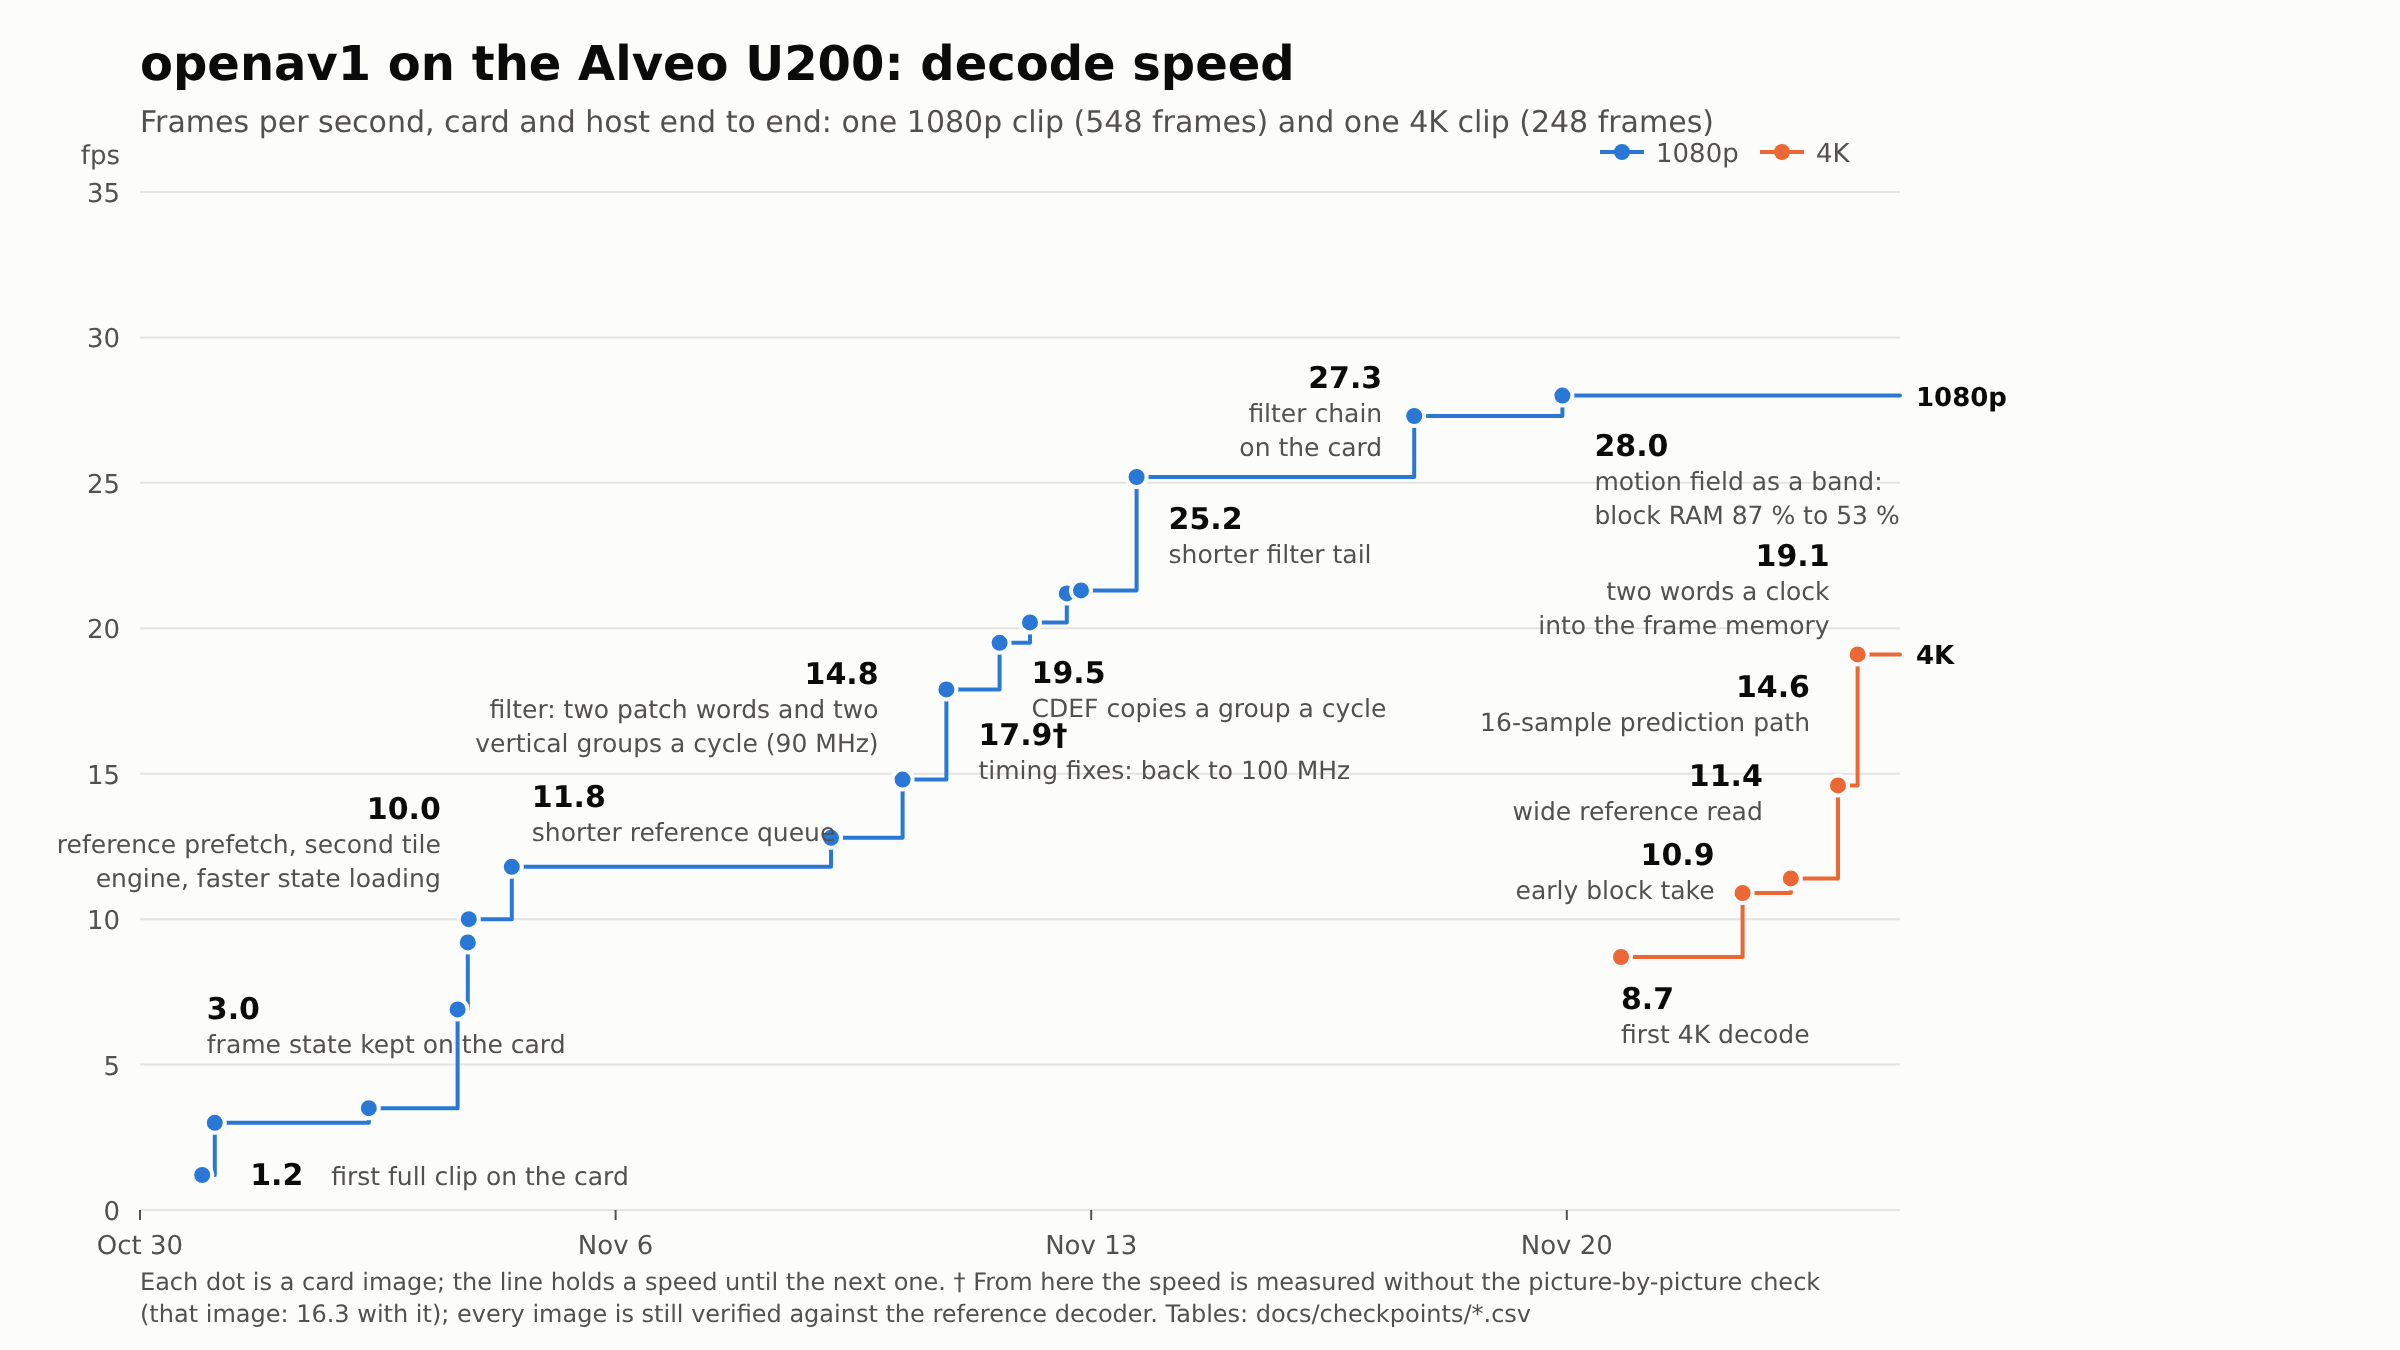
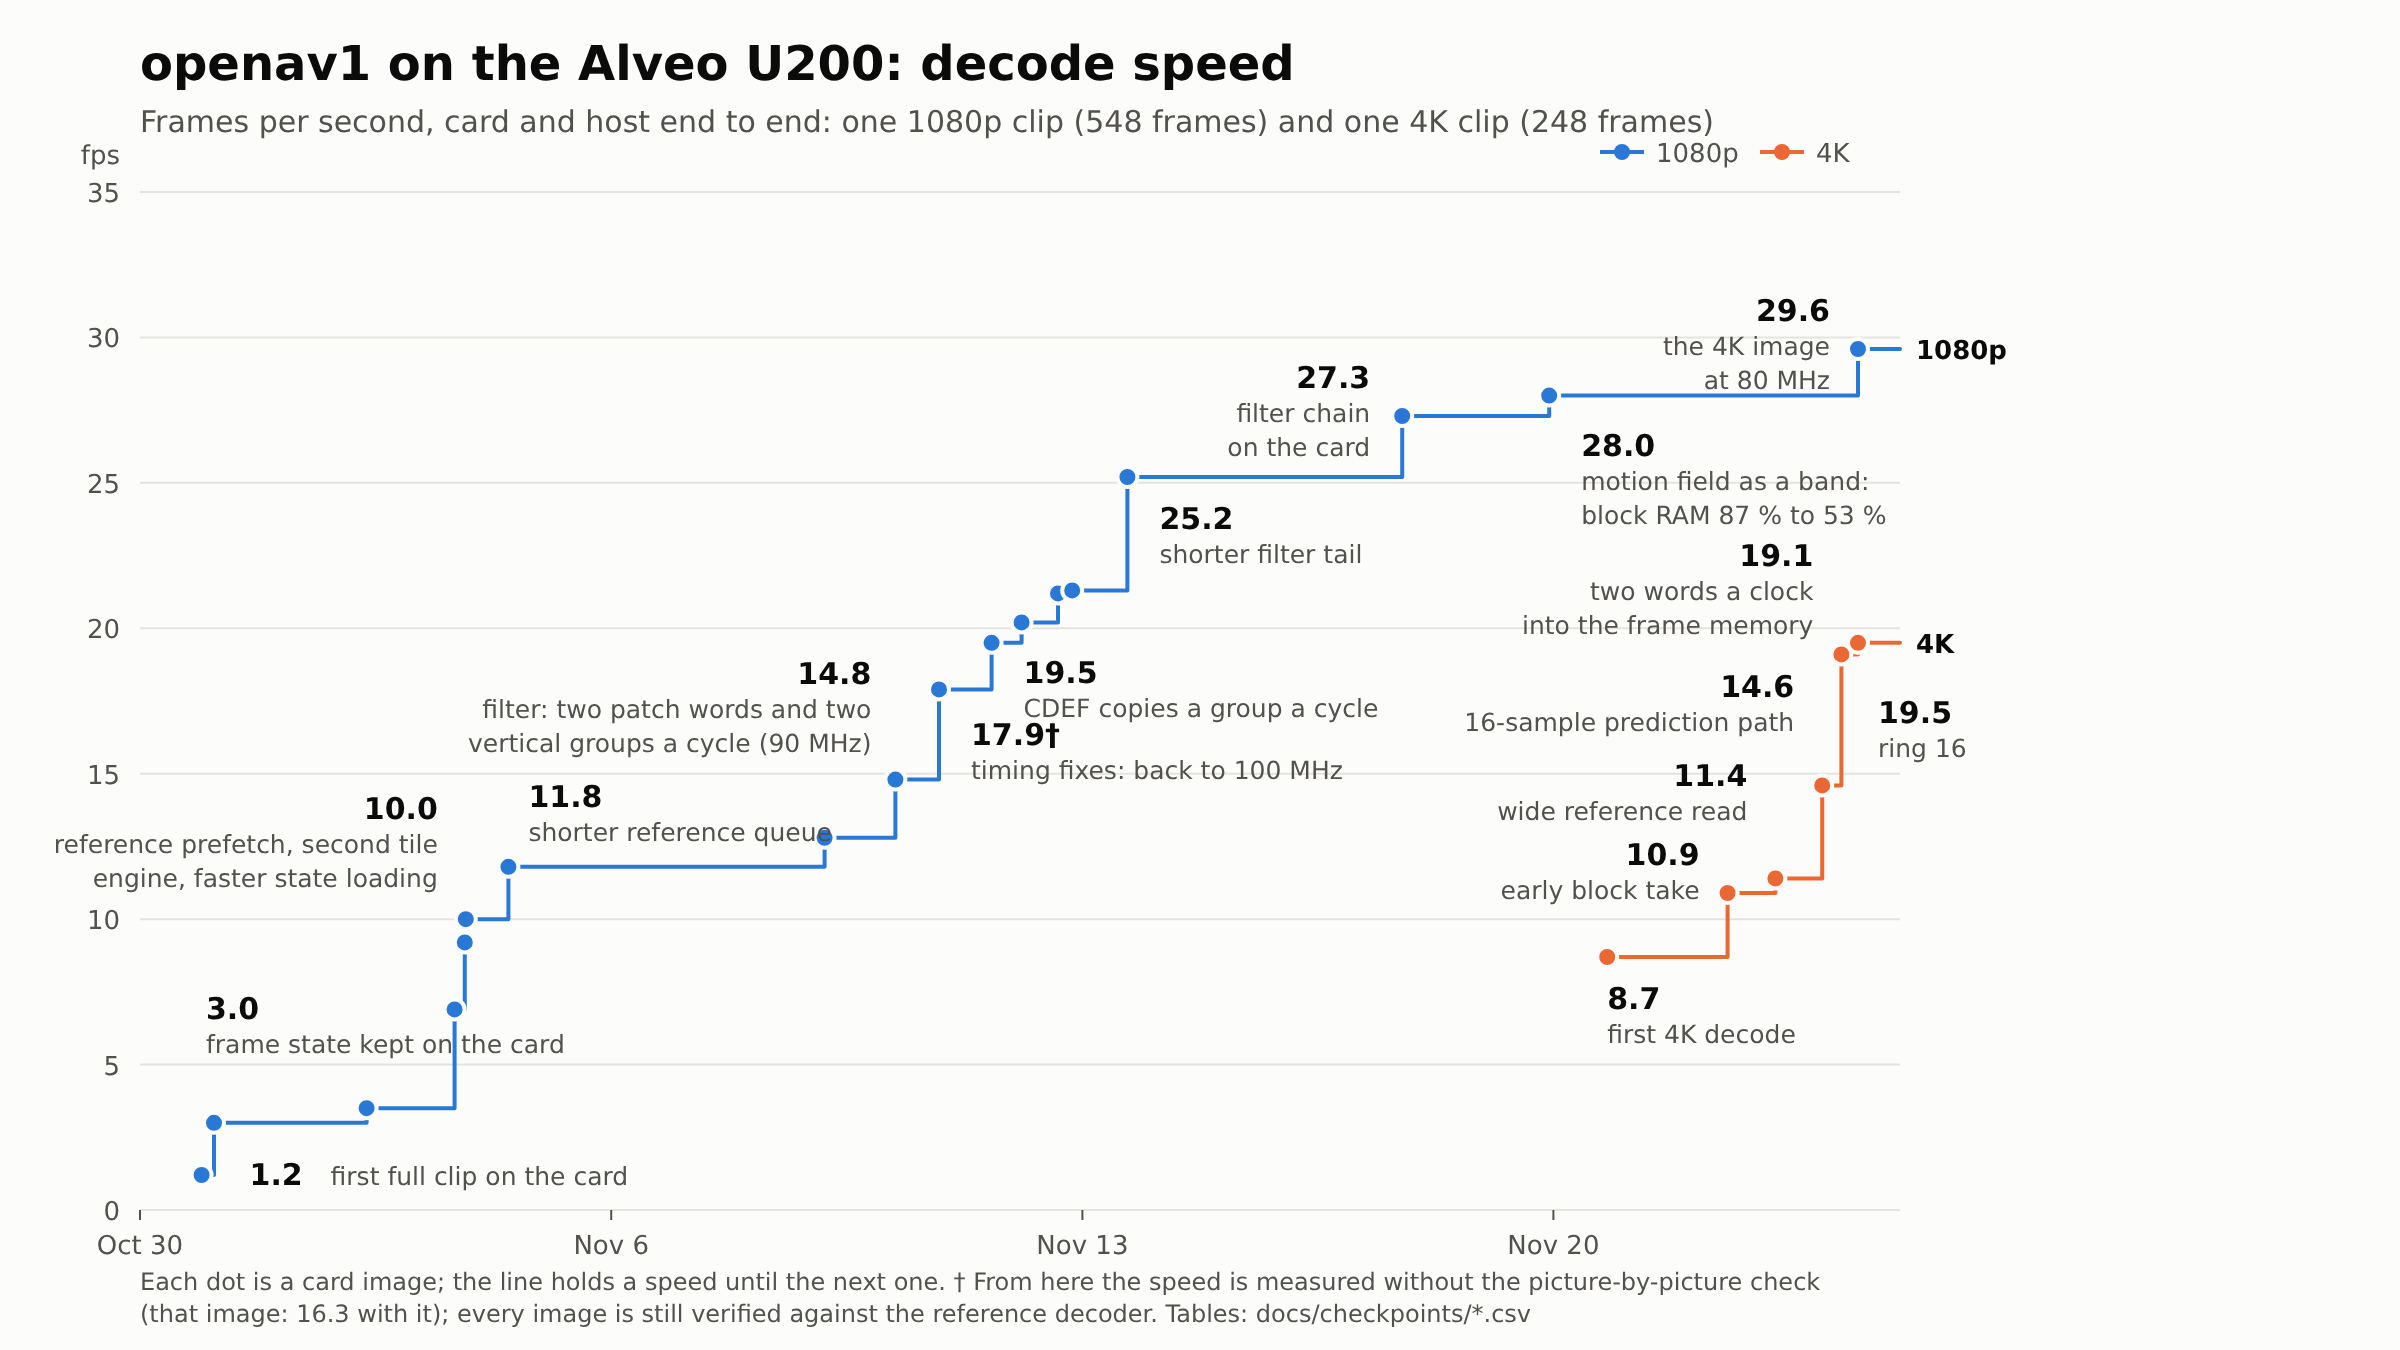
Checkpoints: K06 (4K clip 19.5 fps) and C18 (1080p clip 29.6 fps), image u200-k4rg16-d2a8ac9: 16 reference rows in flight
Read on an idle host: G6aI1-vYHxM "in 12.7s (19.5 fps)" unchecked, checked 240 identical, 0 other, "in 15.5s (16.0 fps)";
in_to_tree-aom 500 of 500 identical, "UNCHECKED in 18.5s (29.6 fps)", checked "in 20.0s (27.4 fps)"; the two-tile clip
20 of 20. Build: WNS 0.001, 0 failing endpoints, WHS 0.007, WPWS 0.000, "All user specified timing constraints are
met"; decoder: FBX 12 FBY 12 FRAME_WIN 5 fb2 3 SB128 1 TE 4 REF_RING 16; 724,491 LUT (61.28 %). The same RTL at ring 32
(u200-k4rg32-d2a8ac9, 744,432 LUT) missed timing (WNS -0.074, 19 endpoints) and was no faster on the 1080p clip.

diff --git a/README.md b/README.md
@@ -12,7 +12,7 @@ This project is built by AI, though a human is involved.
 # current status
 
 *Argon profile-0 passing*
-*1080p at 28.0 fps*
+*1080p at 29.6 fps*
 
 ![Decode speed on the Alveo U200 over time: the 1080p clip and the 4K clip](docs/checkpoints/fps.png)
 
